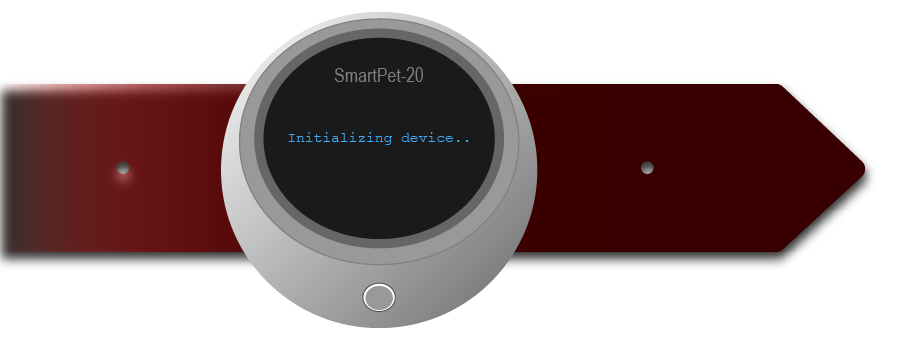
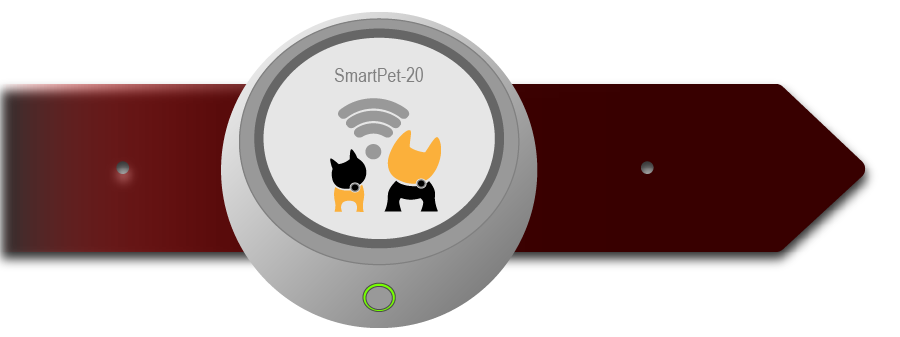
...

Changed region(s): [[0.28, 0.089, 0.56, 0.7122], [0.4044, 0.8309, 0.4667, 0.9199]]

diff --git a/products/index.html b/products/index.html
@@ -139,7 +139,9 @@
               <h2 align="left" style="text-shadow: 0px 0px 3px #333; font-size: 1.67rem; color: #FFF">Features</h2>
 		          <p align="left" style="font-size: 1.22rem; color: #DDD">From security and tracking to health and fitness, training games, virtual fence-lines and proximity alarms, the feature-set of the <b>SmartPet-20</b> is almost too large to list in a single page and with future development planned to continually update, upgrade and add new modules that will expand the functionality of our pet wearable the list below truly represents only the most important, practical features which are only a fraction of what we have earmarked for development.</p>    
 		          
-		          <p align="left" style="font-size: 1.22rem; color: #DDD"><img src="../images/smartpet-back-collar.png" width="100%"></p>
+							<p align="left" style="font-size: 1.22rem; color: #DDD"><img src="../images/smartpet-front-collar.png" width="100%"></p>		          
+		          
+		          <!-- <p align="left" style="font-size: 1.22rem; color: #DDD"><img src="../images/smartpet-back-collar.png" width="100%"></p> -->
 		                    
               	<p align="left" style="text-shadow: 3px 3px 3px #333; font-size: 18px; color: #FFF"><u>Location Tracking & Online Connectivity</u></p>
 								<p align="left" style="font-size: 16px; color: #DDD">With Glonass GPS chipset and LTE cellular network connectivity as standard in the <b>SmartPet-20</b>, you're pet can be tracked and located in a variety of ways, creating a truly versatile and safe way of keeping the whereabouts of your needy creature known to you no matter where you or that creature happen to be..</p>
